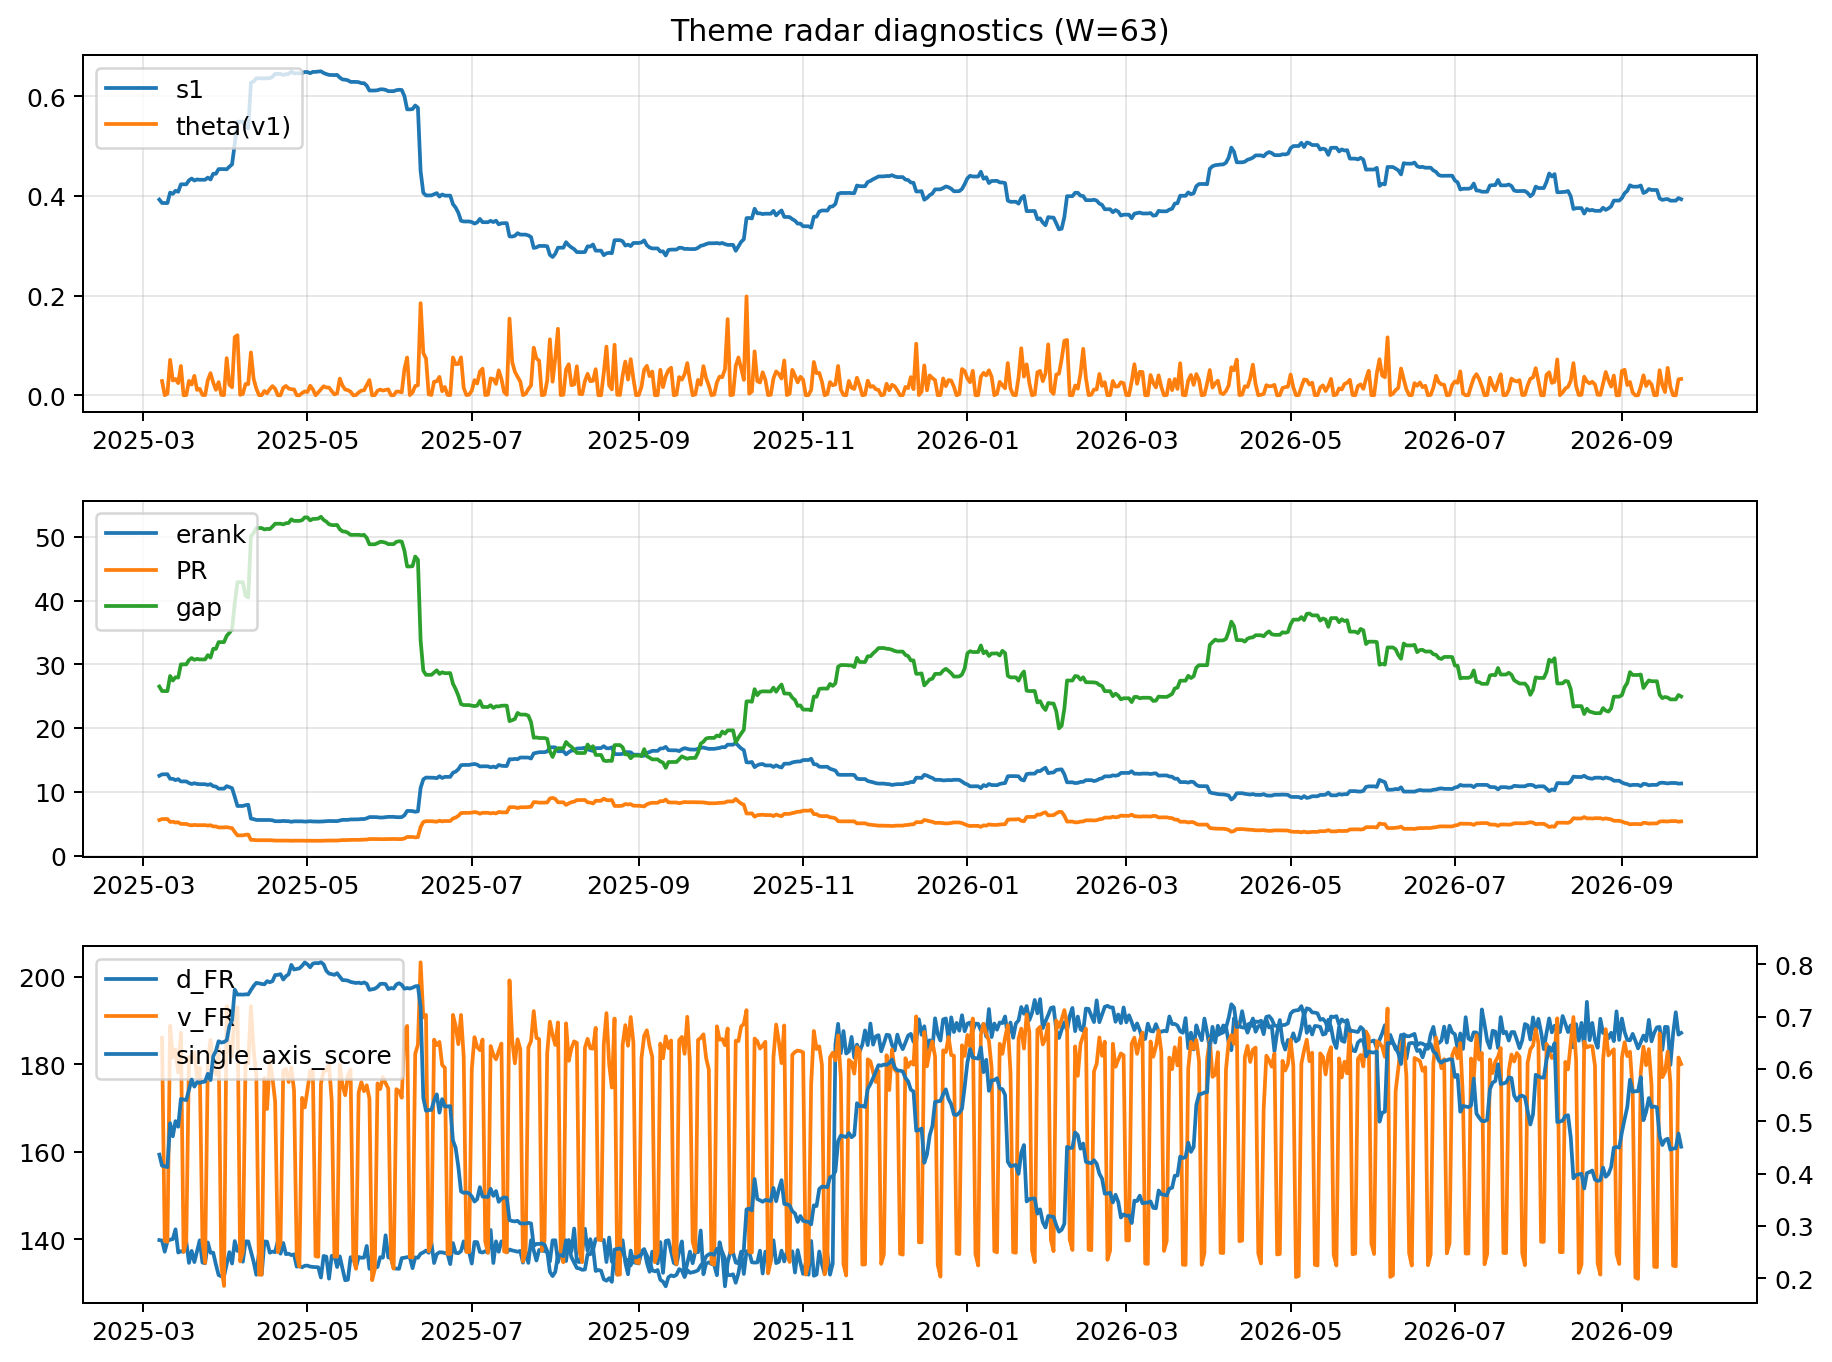
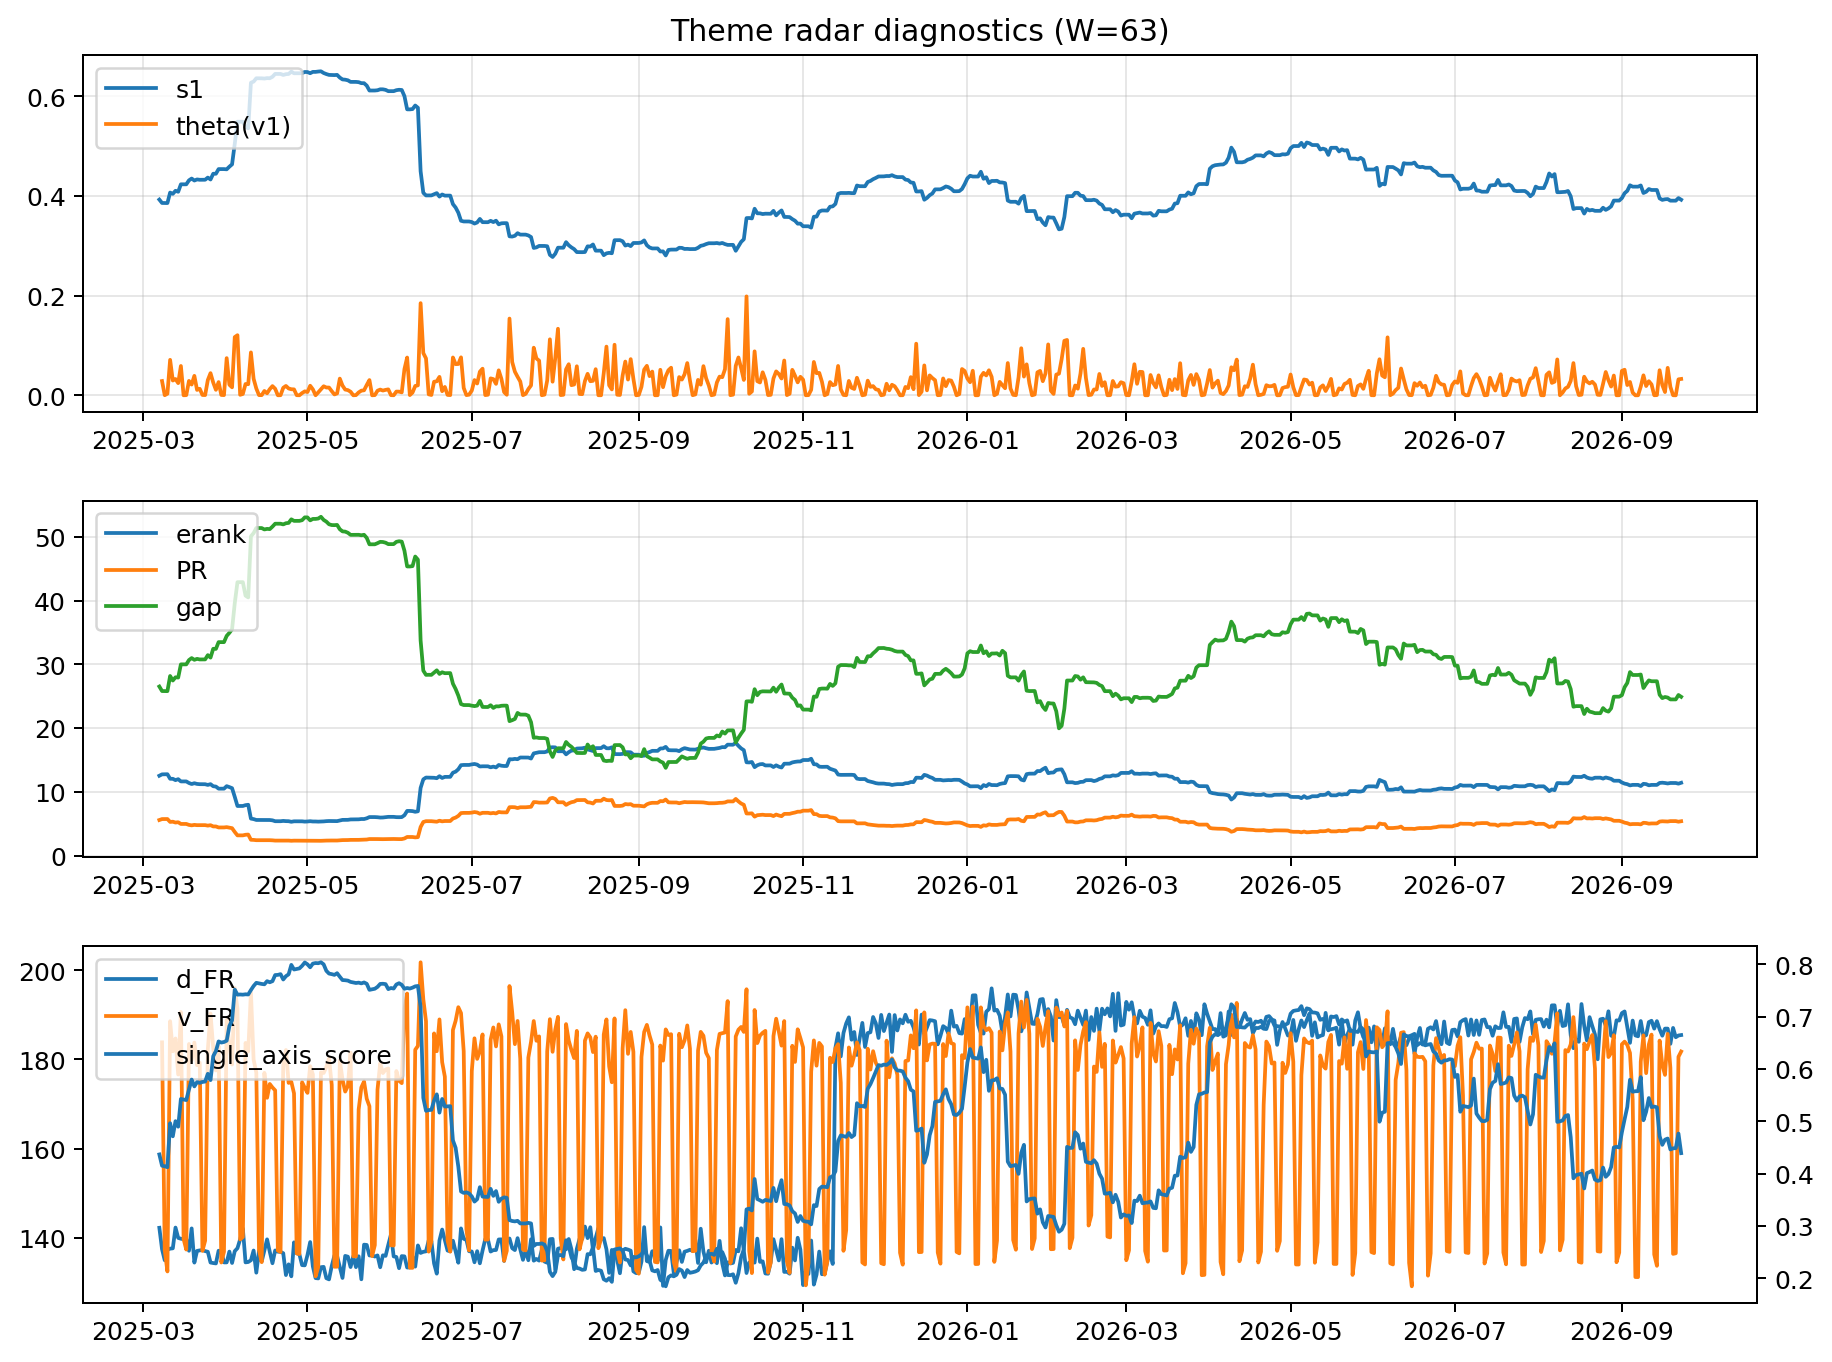
log: 2026-09-23 | sha256:b95c9a3dbf3757268e5c20fe5fe40cf5ce557a53ce359e09b76bbaa91ab4d575

diff --git a/logs/2026-09-23.md b/logs/2026-09-23.md
@@ -3,44 +3,44 @@
 ![diagnostic W63](../assets/diagnostic/2026-09-23_W63.png)
 
 ## Leaders (v1) — W=63
-- **Nuclear_Uranium** (0.0824715801691389)
-- Semis (0.0676655552890048)
-- Quantum (0.0632120293677951)
+- **Nuclear_Uranium** (0.082623150261285)
+- Semis (0.0676061810335975)
+- Quantum (0.0633008993355668)
 
 ## Challengers — W=63
-**v2:** Semis (0.085417099812217), Rates (0.0840516469734663), Genomics_Bio (0.0768719973800462)
-**v3:** Metals (0.0907291651850324), Genomics_Bio (0.0635745979728849), Software_Cloud (0.0612430870396493)
+**v2:** Semis (0.0853214594849961), Rates (0.0842063914571041), Genomics_Bio (0.0776013190104824)
+**v3:** Metals (0.0906209517726319), Genomics_Bio (0.062743142614958), Software_Cloud (0.0623570465745393)
 
 ## Migration (20D slope) — W=63
 **Top risers:**
-- axis_DataCenter_Infra: 0.0005469726745547
-- axis_Genomics_Bio: 0.0002386896366612
-- axis_MegaCap_AI: 0.000203218620486
-- axis_Equity_US: 0.0001705992052137
-- axis_Rates: 0.0001577320948481
-- axis_Robotics: 0.000114772551003
-- axis_Credit: 0.0001129938522403
-- axis_Sector_Utilities: 9.673487576174456e-05
-- axis_Sector_Materials: 9.346382562378244e-05
-- axis_Commodities: 9.2672691480525e-05
+- axis_DataCenter_Infra: 0.0005478659130582
+- axis_Genomics_Bio: 0.0002398370107859
+- axis_MegaCap_AI: 0.0002022816731855
+- axis_Equity_US: 0.0001696476421334
+- axis_Rates: 0.0001584093843299
+- axis_Robotics: 0.0001154304727772
+- axis_Credit: 0.0001134309588059
+- axis_Sector_Utilities: 9.69869037790043e-05
+- axis_Sector_Materials: 9.346009922320516e-05
+- axis_Commodities: 9.196919527368026e-05
 
 **Top fallers:**
-- axis_Software_Cloud: -7.127222472844094e-05
-- axis_Defense: -0.0001209030856891
-- axis_Sector_Health: -0.0001719465658729
-- axis_Sector_RealEstate: -0.0001831301132993
-- axis_Sector_ConsStap: -0.00019162216592
-- axis_Metals: -0.0002300059223057
-- axis_Sector_Energy: -0.0002553458540131
-- axis_Nuclear_Uranium: -0.0003082778508368
-- axis_Cyber: -0.0003783545851405
-- axis_Crypto: -0.0004347889805232
+- axis_Software_Cloud: -7.167411254818e-05
+- axis_Defense: -0.0001206103104445
+- axis_Sector_Health: -0.0001716948193072
+- axis_Sector_RealEstate: -0.0001831171289738
+- axis_Sector_ConsStap: -0.0001913375554881
+- axis_Metals: -0.0002297648999994
+- axis_Sector_Energy: -0.0002555198232824
+- axis_Nuclear_Uranium: -0.0003061129002319
+- axis_Cyber: -0.0003783493860958
+- axis_Crypto: -0.0004351731255294
 
 ## Risk line (W=63)
-- s1: 0.3932195775675265
-- theta_v1: 0.03277627136692
-- v_FR: 180.07819805848368
-- single_axis_score: 0.4515901060070671
+- s1: 0.3923259455210935
+- theta_v1: 0.0327964818308561
+- v_FR: 181.7716909768405
+- single_axis_score: 0.4392226148409894
 
 ## Interpretation
 **Regime:** `theme_migration`
@@ -48,7 +48,7 @@
 - Action: Tomorrow watchlist: DataCenter_Infra, Genomics_Bio, MegaCap_AI, Equity_US, Rates + v2_top1=Semis
 - Action: Hedge note: normal correlation stability.
 
-- Percentiles (W=63 history): vfr_pct=0.47, theta_pct=0.71, s1_pct=0.40, score_pct=0.42.
+- Percentiles (W=63 history): vfr_pct=0.55, theta_pct=0.71, s1_pct=0.40, score_pct=0.39.
 
 ---
[2 lines of base64/hex data omitted]
